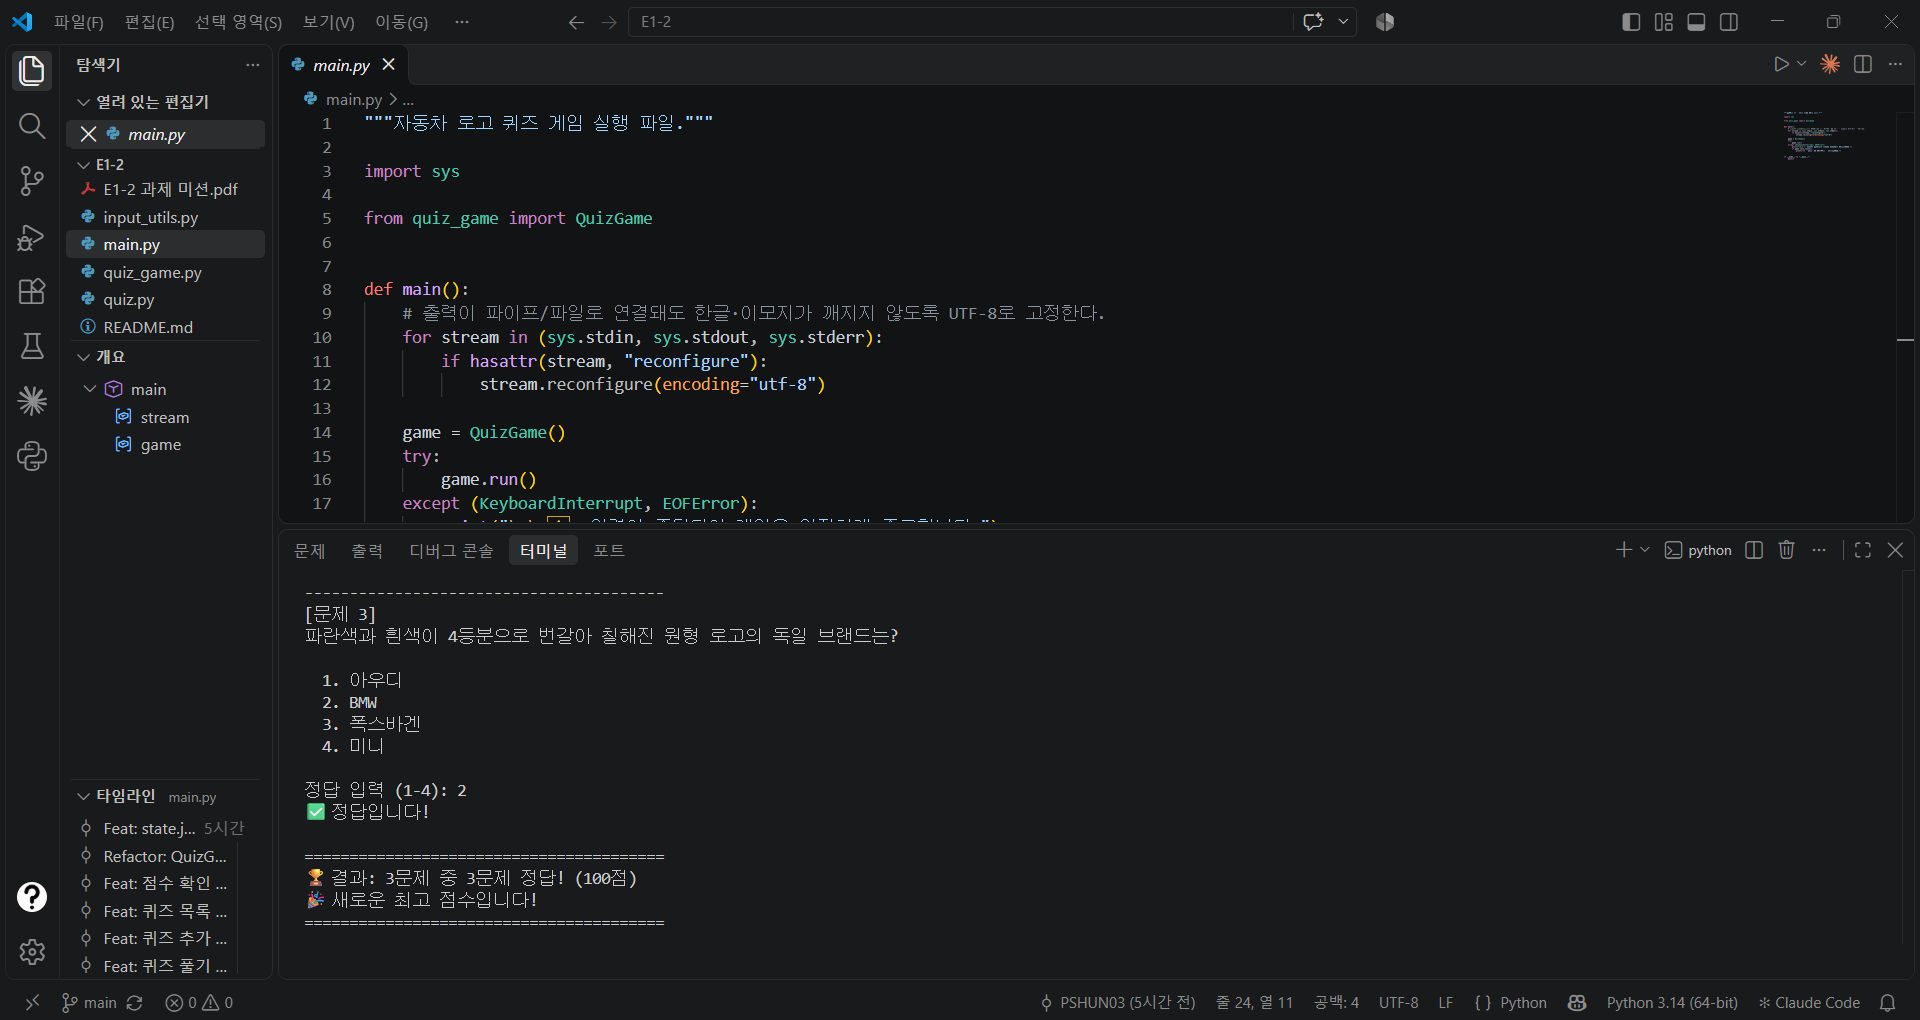
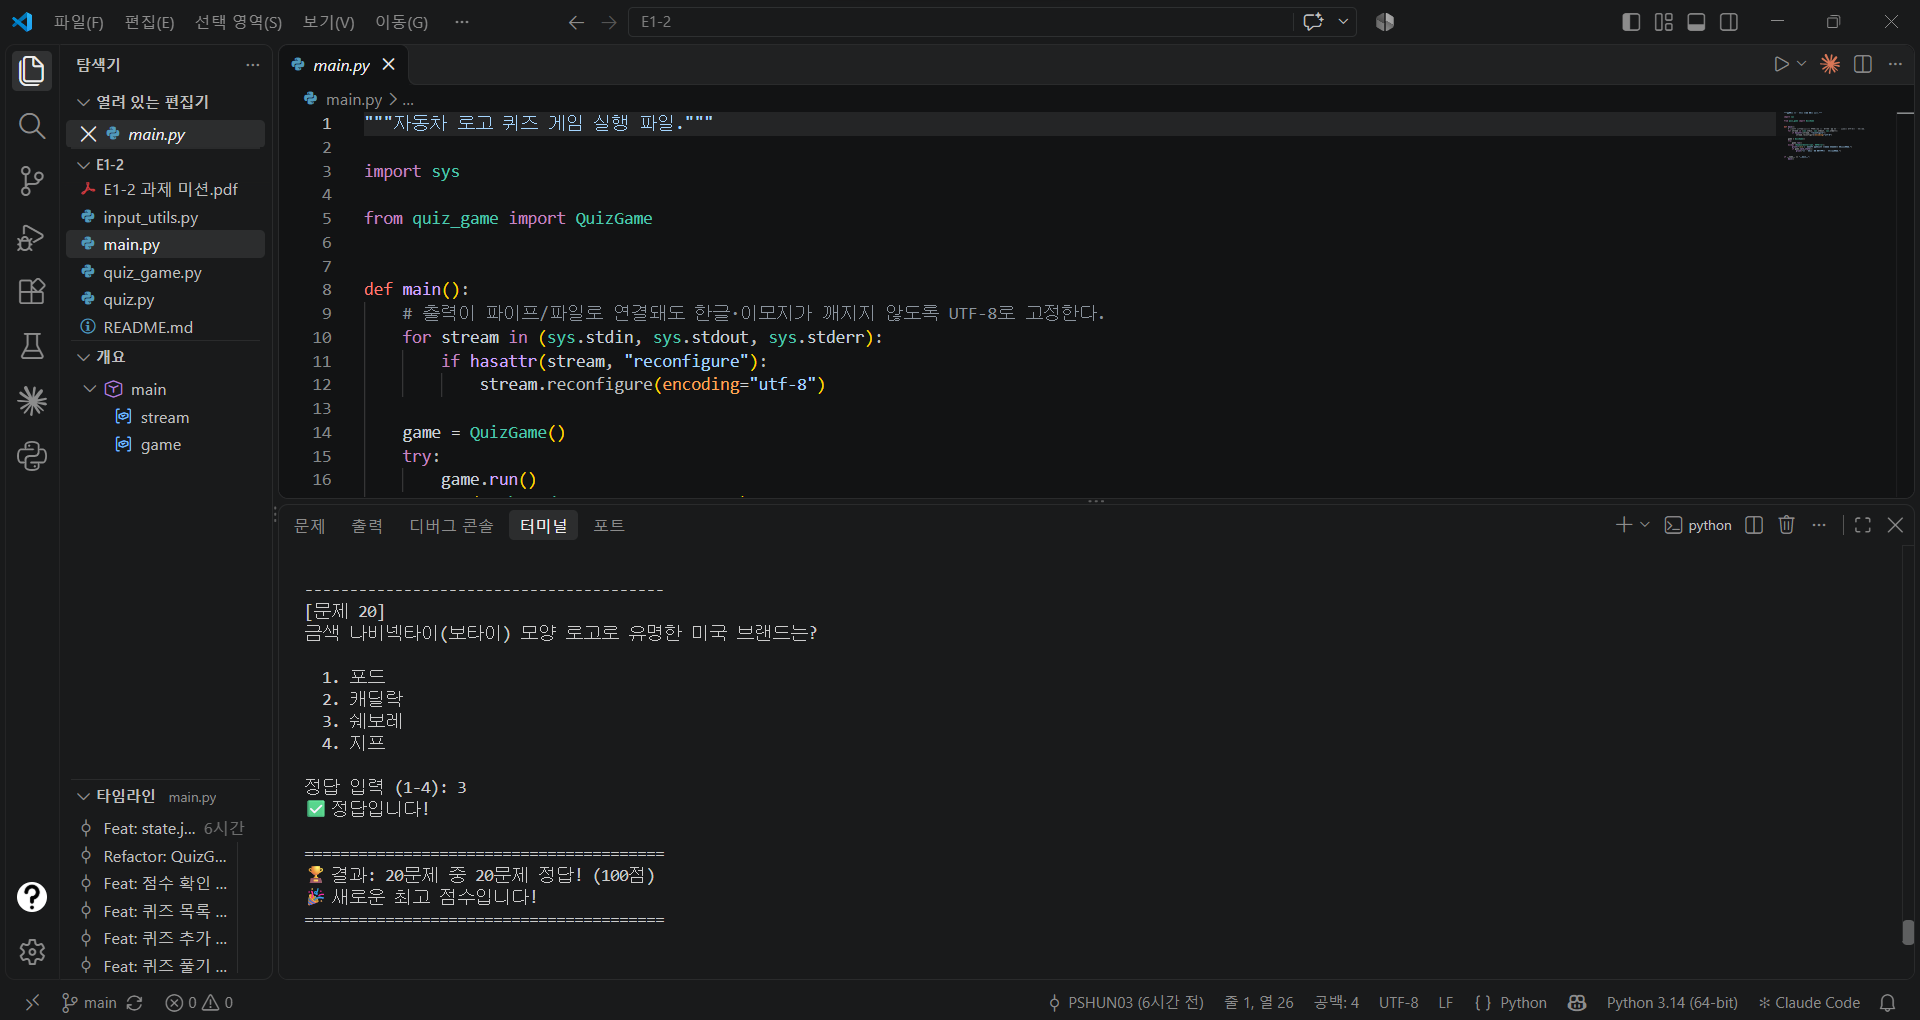
Docs: 퀴즈 풀기 스크린샷 교체 및 연습 게임 화면 추가
- play.png: 전체 20문제 풀이 후 최고 점수 갱신 화면으로 교체
- play_practice.png: 일부만 푼 연습 게임이 최고 점수에 반영되지 않는 화면 추가

diff --git a/README.md b/README.md
@@ -431,7 +431,8 @@ git log --oneline -3
 |---|---|
 | 개발 환경 (VSCode, Python 버전, Git 설정) | `docs/screenshots/environment.png` |
 | 메뉴 화면 | `docs/screenshots/menu.png` |
-| 퀴즈 풀기 | `docs/screenshots/play.png` |
+| 퀴즈 풀기 (전체 풀이) | `docs/screenshots/play.png` |
+| 퀴즈 풀기 (연습 게임) | `docs/screenshots/play_practice.png` |
 | 퀴즈 추가 | `docs/screenshots/add_quiz.png` |
 | 퀴즈 목록 | `docs/screenshots/list.png` |
 | 점수 확인 | `docs/screenshots/score.png` |
@@ -443,8 +444,11 @@ git log --oneline -3
 ### 메뉴 화면 (첫 실행: 기본 퀴즈로 시작)
 ![메뉴](docs/screenshots/menu.png)
 
-### 퀴즈 풀기
+### 퀴즈 풀기 (전체 20문제 풀이 → 최고 점수 반영)
 ![퀴즈 풀기](docs/screenshots/play.png)
+
+### 퀴즈 풀기 (3문제만 푼 연습 게임 → 최고 점수 미반영)
+![연습 게임](docs/screenshots/play_practice.png)
 
 ### 퀴즈 추가
 ![퀴즈 추가](docs/screenshots/add_quiz.png)
